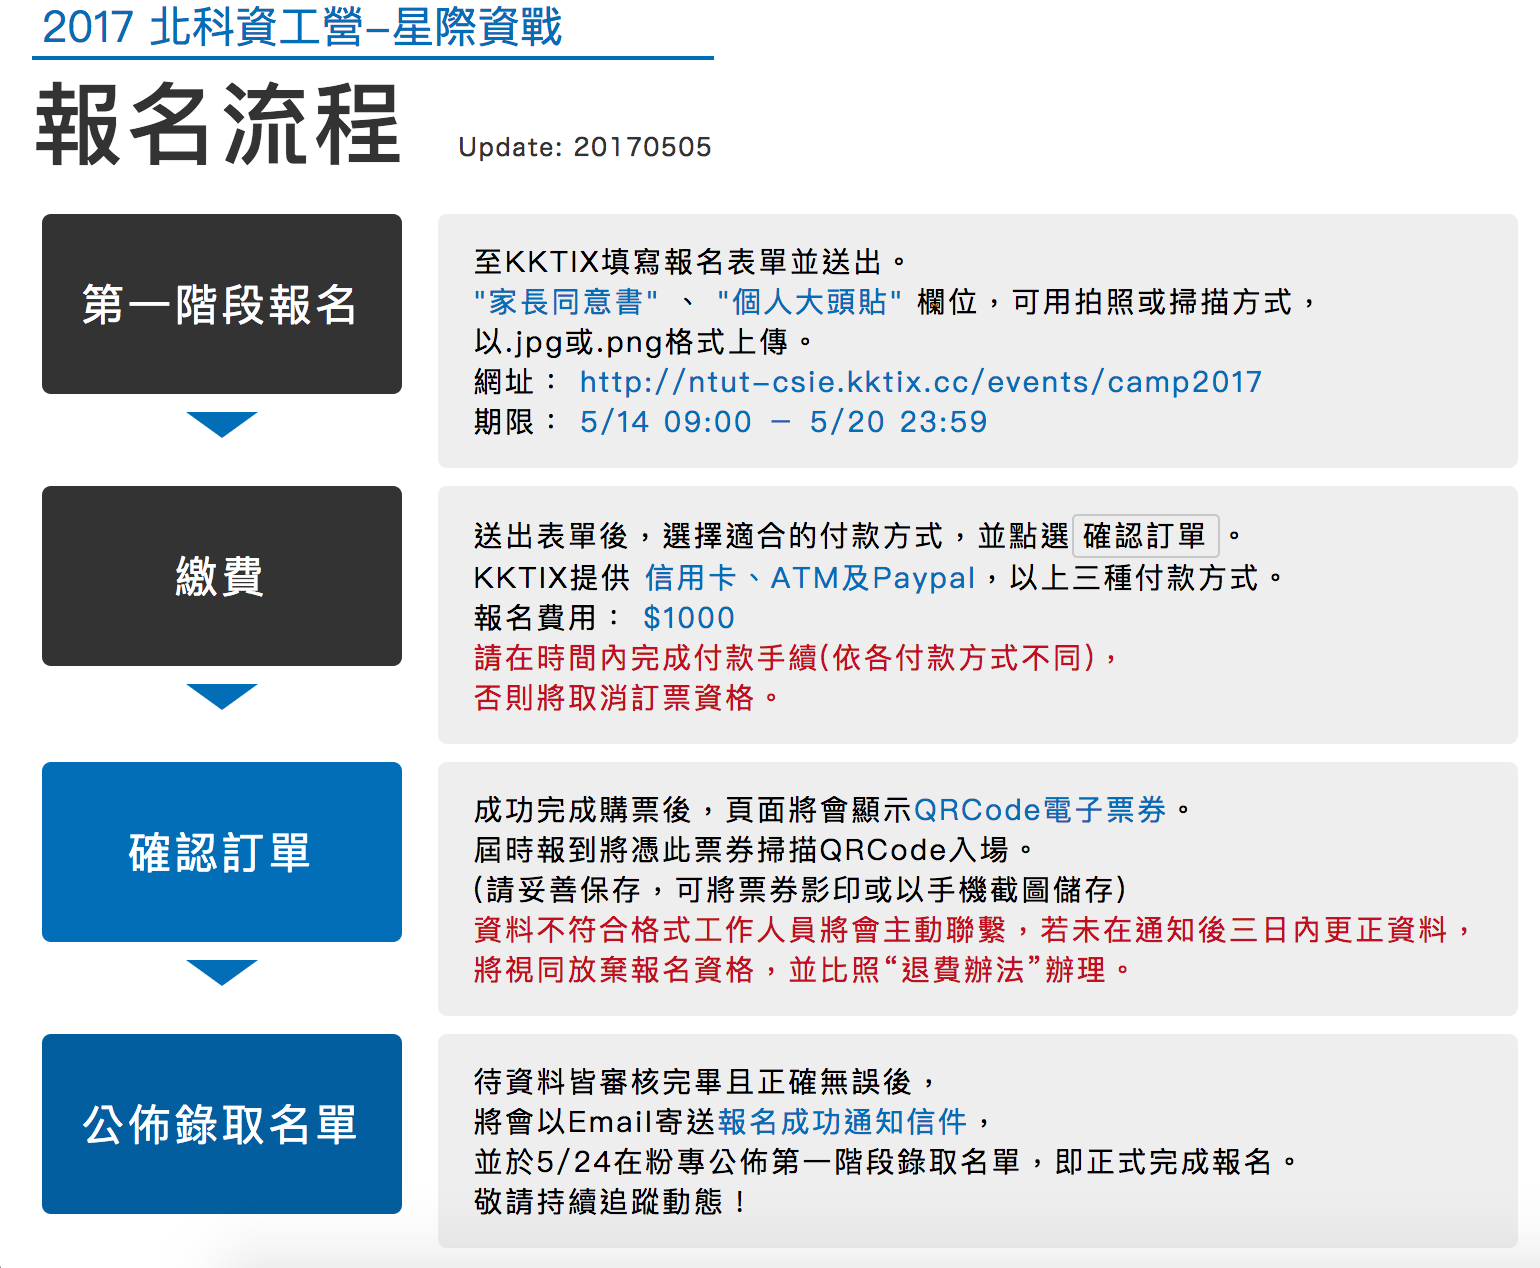
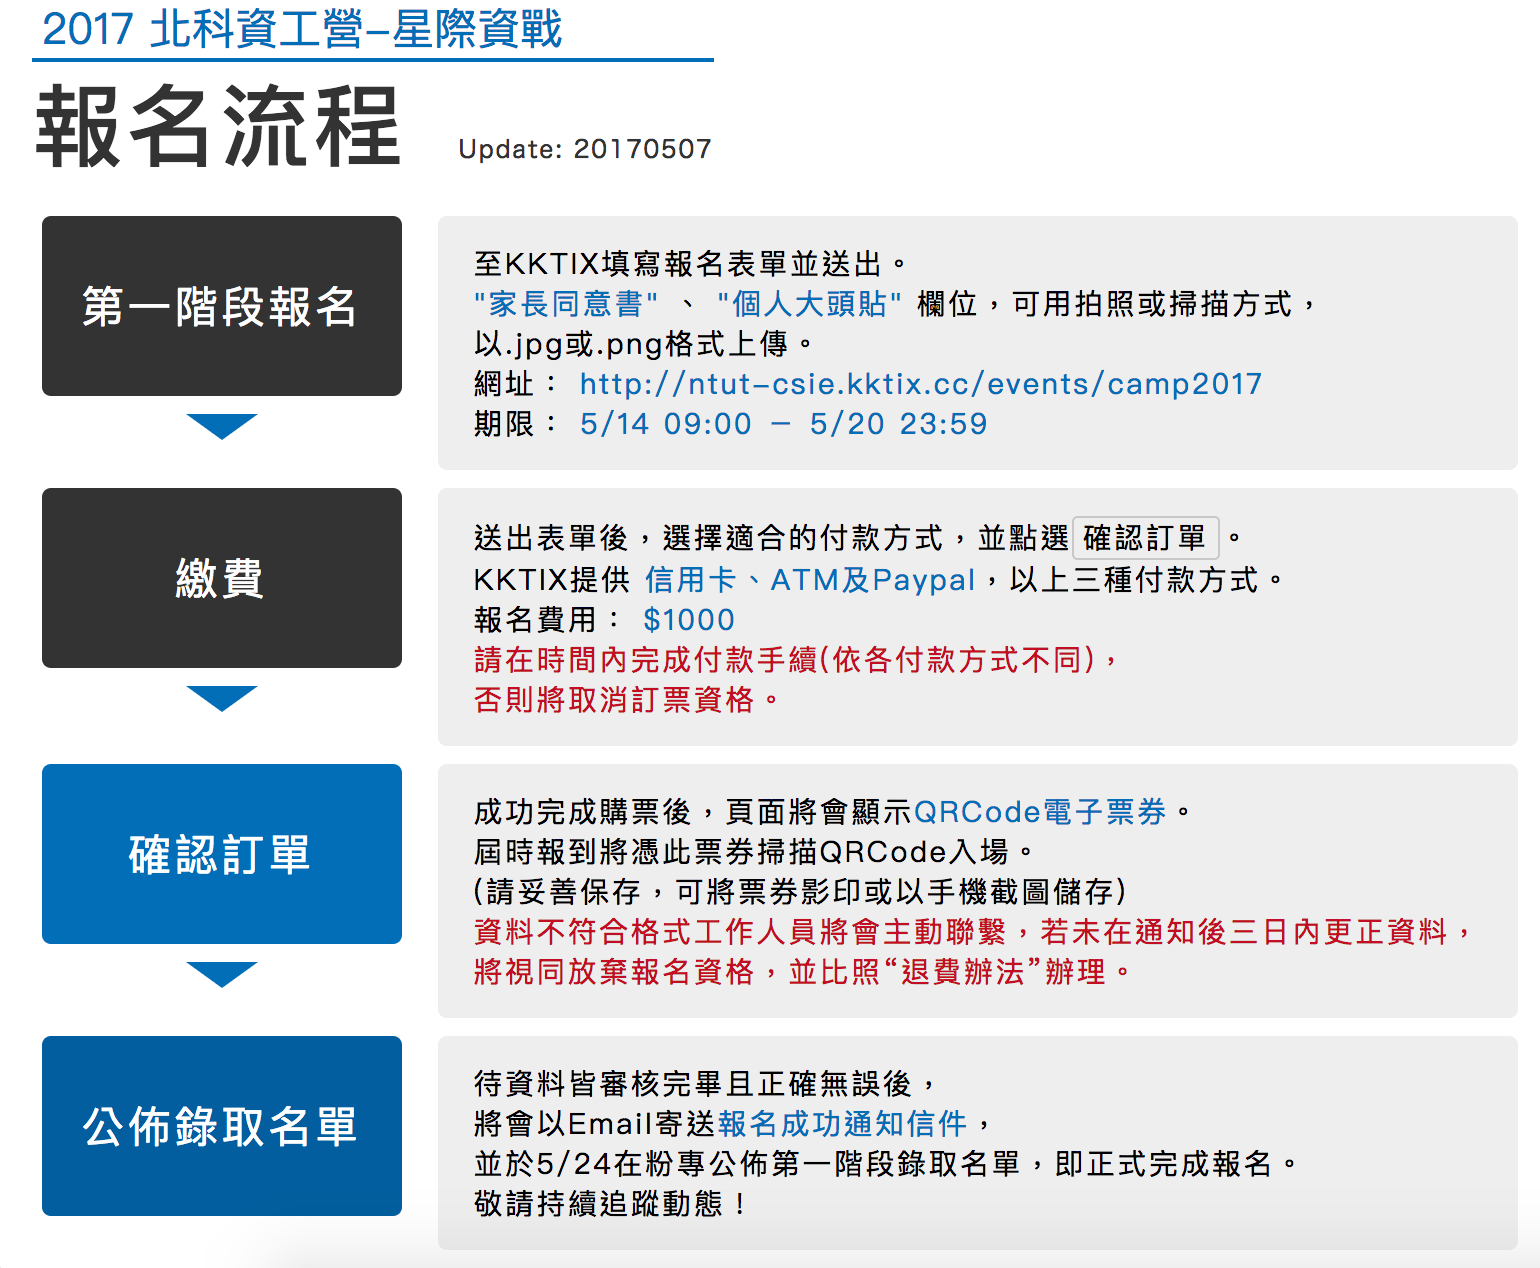
data

diff --git a/kktix-discribe.html b/kktix-discribe.html
@@ -30,8 +30,8 @@
 
 <h2>報名流程</h2>
 
-<img alt="1" src="https://a92304a92304.github.io/2017csiecamp/lc_img/1.png" style="height: auto; width: 800px;" />
-<img alt="2" src="https://a92304a92304.github.io/2017csiecamp/lc_img/2.png" style="height: auto; width: 800px;" />
+<img alt="1" src="https://a92304a92304.github.io/2017csiecamp/lc_img/1.png" style="height: auto; width: 750px;" />
+<img alt="2" src="https://a92304a92304.github.io/2017csiecamp/lc_img/2.png" style="height: auto; width: 750px;" />
 
 
 <h2 style="color:rgb(200, 51, 33);font-weight:bold;">退費辦法</h2>
